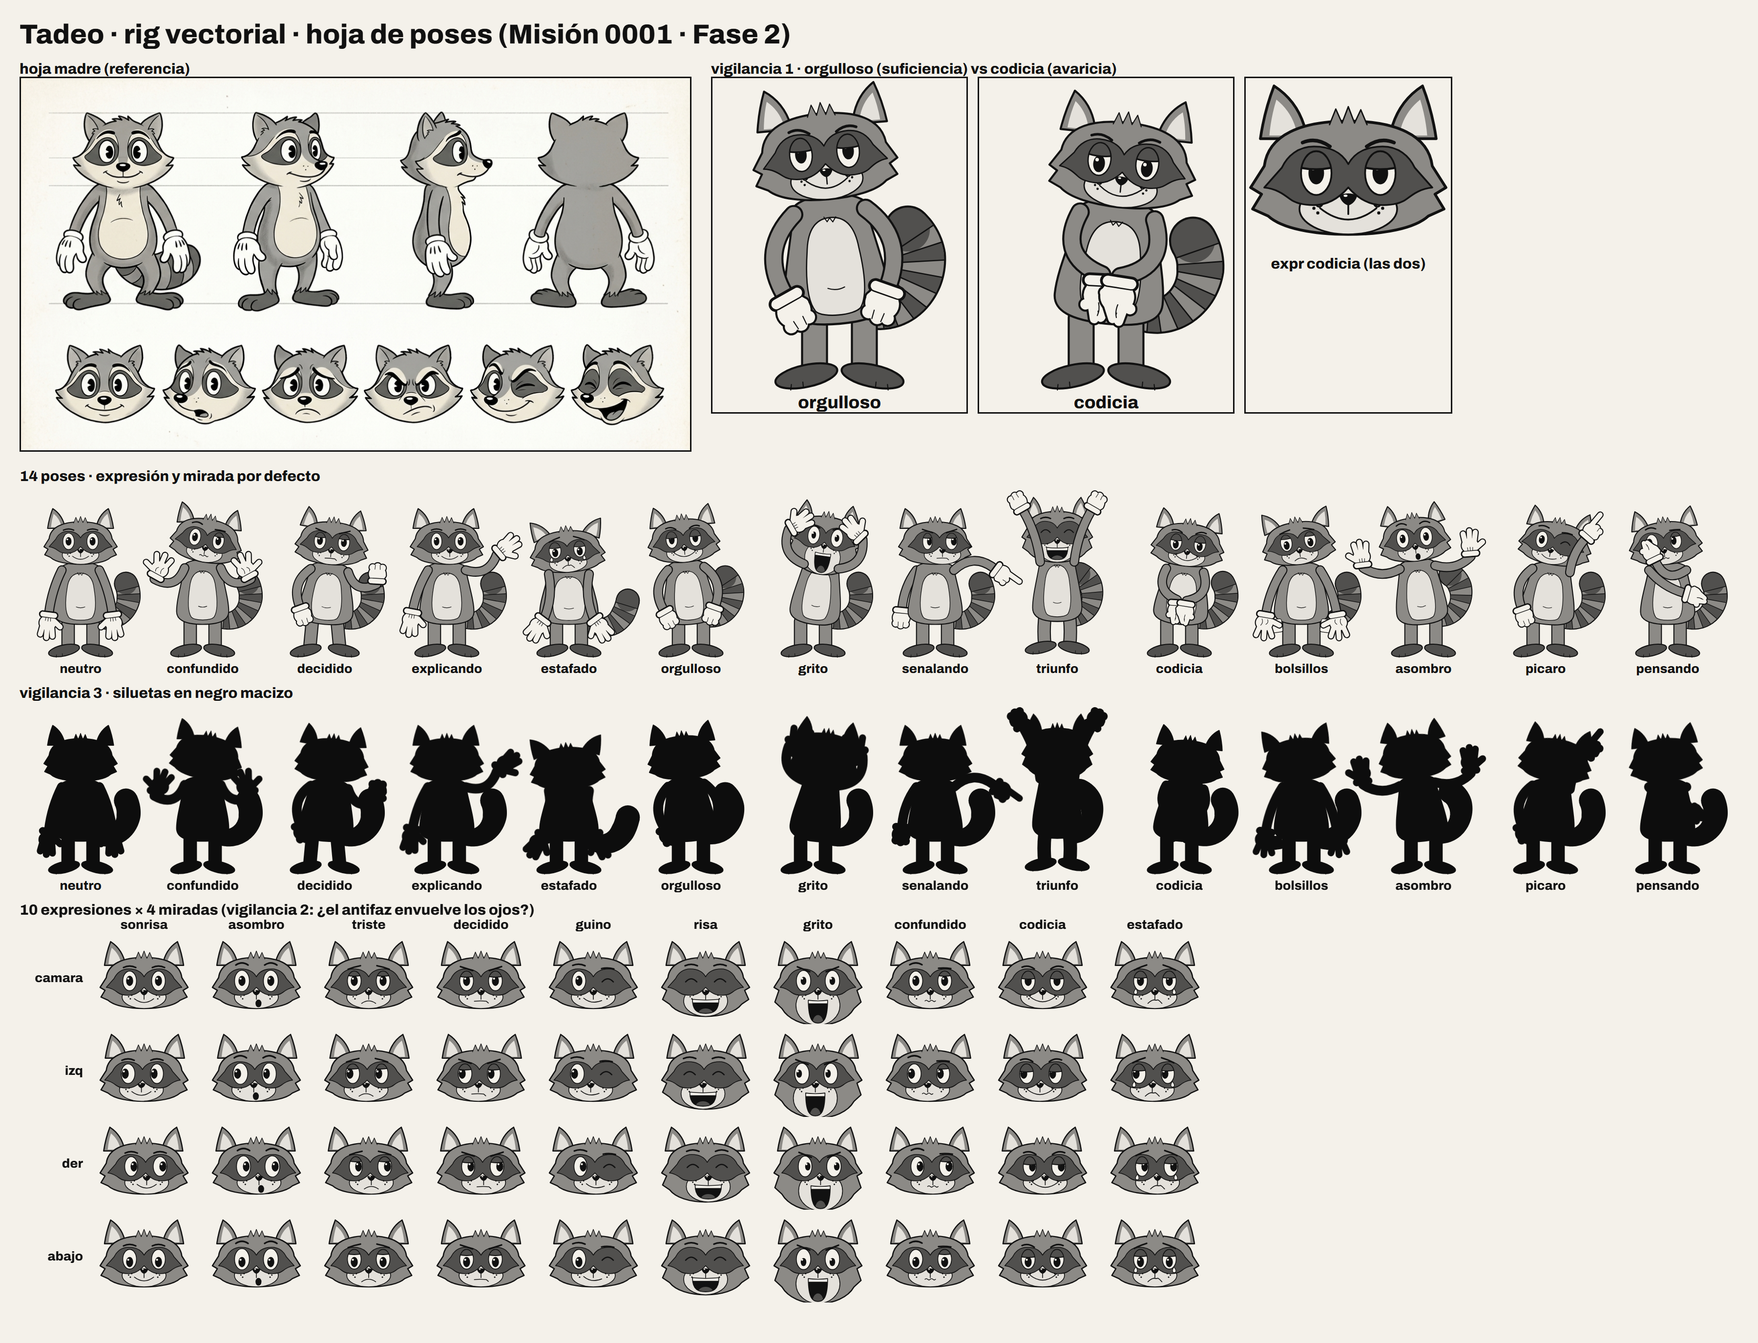
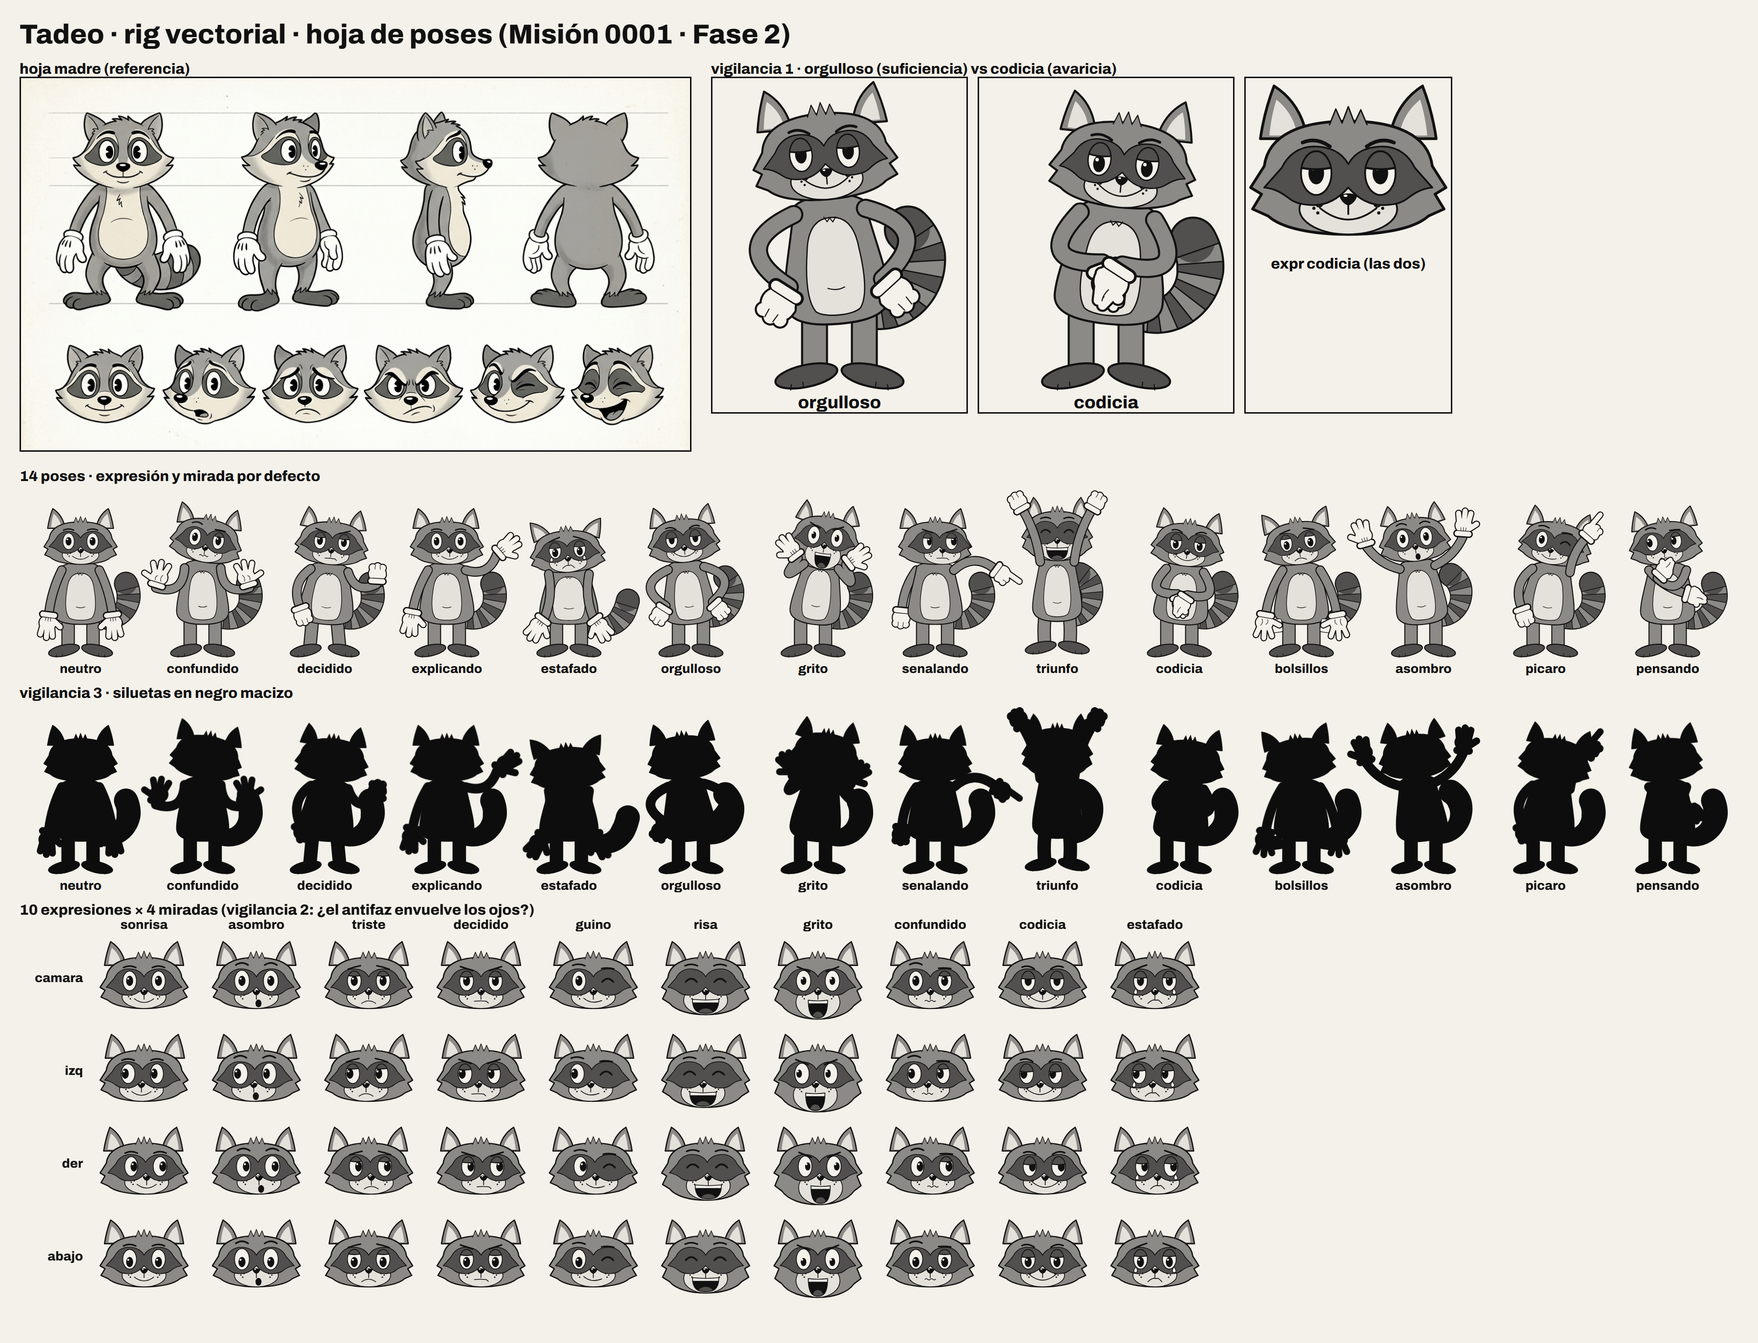
Mision 0001 fase 2: fixes de la critica A9, reporte y en-auditoria
- orgulloso con jarras y pensando bajo el hocico (bloqueantes de la critica)
- curvaMax 2 en brazos (A3 con 1 no alcanza jarras ni bocina): desviacion declarada
- confundido/asombro separados por altura, grito en bocina, mandibula acotada
- hoja de poses, gate y evidencia regenerados; reporte por criterio

diff --git a/motion_graphics/src/kx/tadeo/poses.js b/motion_graphics/src/kx/tadeo/poses.js
@@ -10,7 +10,9 @@ export const RIG = {
   cadera: [85, 235],
   cuelloLocal: [0, 625], // barbilla: la cabeza se apoya aquí (solape 30 u)
   cabezaCentro: 770,
-  brazo: { largo: 330, grosor: 52, factorCurva: 0.38, min: 0.75, max: 1.35 },
+  // curvaMax 2 (A3 decía 1): con 1 el codo sale como mucho 62 u y las jarras de
+  // `orgulloso` o la bocina de `grito` son imposibles. Desviación declarada en el Reporte.
+  brazo: { largo: 330, grosor: 52, factorCurva: 0.38, min: 0.75, max: 1.35, curvaMax: 2 },
   pierna: { largo: 175, grosor: 78, curvaMax: 0.35 },
   cola: { base: [95, 250], largo: 420, grosor: [90, 150], anillos: 5 },
   guante: { radio: 110 }, // radio envolvente del guante abierto desde la muñeca
@@ -53,7 +55,7 @@ export const POSES = {
   }),
   confundido: pose("confundido", "confundido", "camara", {
     cabeza: { inclina: 10 }, torso: { sy: 1.04 },
-    brazoI: brazo([-330, 510], 1, "palma", 90), brazoD: brazo([330, 510], -1, "palma", 90),
+    brazoI: brazo([-320, 450], 1.2, "palma", 90), brazoD: brazo([320, 450], -1.2, "palma", 90),
     orejas: { i: 10, d: -6 },
   }),
   decidido: pose("decidido", "decidido", "camara", {
@@ -72,12 +74,12 @@ export const POSES = {
   }),
   orgulloso: pose("orgulloso", "codicia", "camara", {
     torso: { inclina: -5, sy: 1.04 },
-    brazoI: brazo([-180, 320], -0.8, "puno"), brazoD: brazo([180, 320], 0.8, "puno"),
+    brazoI: brazo([-160, 340], -1.8, "puno", 90), brazoD: brazo([160, 340], 1.8, "puno", 90),
     cola: { rizo: 0.6, alza: 12 },
   }),
   grito: pose("grito", "grito", "camara", {
     torso: { inclina: 8, sy: 1.08 },
-    brazoI: brazo([-255, 805], 1, "abierta", 40), brazoD: brazo([255, 805], -1, "abierta", 40),
+    brazoI: brazo([-165, 620], 1.9, "abierta", -75), brazoD: brazo([165, 620], -1.9, "abierta", -75),
     orejas: { i: -12, d: -12 },
   }),
   senalando: pose("senalando", "decidido", "der", {
@@ -91,7 +93,7 @@ export const POSES = {
   }),
   codicia: pose("codicia", "codicia", "abajo", {
     cabeza: { dy: -10 }, torso: { inclina: 6 },
-    brazoI: brazo([-32, 380], -1, "agarra", 70), brazoD: brazo([32, 380], 1, "agarra", 70),
+    brazoI: brazo([-34, 420], -1.8, "agarra", 70), brazoD: brazo([34, 420], 1.8, "agarra", 70),
     cola: { rizo: 0.5 },
   }),
   bolsillos: pose("bolsillos", "triste", "abajo", {
@@ -101,7 +103,7 @@ export const POSES = {
   }),
   asombro: pose("asombro", "asombro", "camara", {
     torso: { inclina: -6, sy: 1.06 },
-    brazoI: brazo([-370, 620], 0.6, "abierta", 50), brazoD: brazo([370, 620], -0.6, "abierta", 50),
+    brazoI: brazo([-330, 760], 0.4, "abierta", 20), brazoD: brazo([330, 760], -0.4, "abierta", 20),
     orejas: { i: -12, d: -12 }, cola: { rizo: 0.7, alza: 20 },
   }),
   picaro: pose("picaro", "guino", "camara", {
@@ -110,7 +112,7 @@ export const POSES = {
   }),
   pensando: pose("pensando", "confundido", "izq", {
     cabeza: { inclina: -6 },
-    brazoI: brazo([110, 430], -0.35, "agarra", 0), brazoD: brazo([-80, 640], 1, "agarra", 0),
+    brazoI: brazo([110, 430], -0.35, "agarra", 0), brazoD: brazo([-70, 530], 1.3, "agarra", -90),
   }),
 };
 
@@ -133,8 +135,8 @@ export const EXPRESIONES = {
   triste: expr("triste", { cejaI: ceja(tan(16), -tan(16), 2), parpadoI: 0.25, boca: "triste" }),
   decidido: expr("decidido", { cejaI: ceja(-tan(18) - 6, tan(18) - 6, 0), parpadoI: 0.3, boca: "apretada" }),
   guino: expr("guino", { cejaI: ceja(10, 12, 8), cejaD: ceja(-6, -8, 4), cerradoD: true, boca: "ladeada" }),
-  risa: expr("risa", { cejaI: ceja(10, 10, 8), cerradoI: true, cerradoD: true, boca: "risa", mandibula: 45 }),
-  grito: expr("grito", { cejaI: ceja(-tan(22) - 10, tan(22) - 10, 0), pupila: 0.8, ojo: 1.05, boca: "grito", mandibula: 95 }),
+  risa: expr("risa", { cejaI: ceja(10, 10, 8), cerradoI: true, cerradoD: true, boca: "risa", mandibula: 35 }),
+  grito: expr("grito", { cejaI: ceja(-tan(22) - 10, tan(22) - 10, 0), pupila: 0.8, ojo: 1.05, boca: "grito", mandibula: 60 }),
   confundido: expr("confundido", { cejaI: ceja(16, 16, 10), cejaD: ceja(-4, -6, 2), parpadoD: 0.25, boca: "ondulada" }),
   codicia: expr("codicia", { cejaI: ceja(-8, 2, 10), parpadoI: 0.4, boca: "ancha" }),
   estafado: expr("estafado", { cejaI: ceja(tan(22), -tan(22), 2), parpadoI: 0.35, boca: "temblorosa", lagrima: true }),

diff --git a/motion_graphics/src/kx/tadeo/partes.jsx b/motion_graphics/src/kx/tadeo/partes.jsx
@@ -200,7 +200,7 @@ const Ojo = ({ id, cx, ancho, escala, pupila, mirada, parpado, cerrado, lagrima,
   const ry = 56 * escala;
   const cy = 782;
   if (cerrado) {
-    return <path d={`M ${cx - 32} ${cy - 6} Q ${cx} ${cy + 30} ${cx + 32} ${cy - 6}`} fill="none" strokeWidth={7} {...lineProps} />;
+    return <path d={`M ${cx - 32} ${cy - 6} Q ${cx} ${cy + 30} ${cx + 32} ${cy - 6}`} fill="none" strokeWidth={10} {...lineProps} />;
   }
   const px = cx + mirada.x * 16 * ancho;
   const py = cy + mirada.y * 20;
@@ -248,8 +248,8 @@ const Boca = ({ tipo, m, x, uid }) => {
   else if (tipo === "triste") el = <path d={`M -40 ${y - 14} Q 0 ${y + 14} 40 ${y - 14}`} {...st} />;
   else if (tipo === "apretada") el = <path d={`M -38 ${y - 2} Q 0 ${y + 2} 30 ${y - 2} L 42 ${y - 12}`} {...st} />;
   else if (tipo === "ladeada") el = <path d={`M -55 ${y + 16} Q -10 ${y - 22} 48 ${y + 2}`} {...st} />;
-  else if (tipo === "risa") el = open(Math.max(20, 80 * Math.min(1, m / 45)), 75, y + 9, `${uid}-boca`);
-  else if (tipo === "grito") el = open(Math.max(24, 130 * Math.min(1, m / 95)), 55, y + 4, `${uid}-boca`);
+  else if (tipo === "risa") el = open(Math.max(20, 80 * Math.min(1, m / 35)), 75, y + 9, `${uid}-boca`);
+  else if (tipo === "grito") el = open(Math.max(24, 100 * Math.min(1, m / 60)), 55, y + 4, `${uid}-boca`);
   else if (tipo === "ondulada") el = <path d={`M -30 ${y} q 7.5 7 15 0 t 15 0 t 15 0 t 15 0`} {...st} />;
   else if (tipo === "ancha") el = (
     <g>

diff --git a/tests/test_tadeo_lib.py b/tests/test_tadeo_lib.py
@@ -54,7 +54,8 @@ def test_defaults_validos():
         assert p["mirada"] in LIB["miradas"], pid
         for lado in ("brazoI", "brazoD"):
             assert p[lado]["guante"] in LIB["guantes"], (pid, lado)
-            assert -1 <= p[lado]["curva"] <= 1, (pid, lado)
+            cmax = LIB["rig"]["brazo"]["curvaMax"]
+            assert -cmax <= p[lado]["curva"] <= cmax, (pid, lado)
             assert p[lado]["capa"] in ("delante", "detras"), (pid, lado)
 
 

diff --git a/misiones/0001-fase2-rig-tadeo.md b/misiones/0001-fase2-rig-tadeo.md
@@ -1,6 +1,6 @@
 # MISIÓN 0001 — Fase 2: Rig vectorial de Tadeo
 
-Estado: en-curso (Parte A — diseño — entregada; Parte B — construcción — pendiente) ·
+Estado: en-auditoria (Parte A — diseño de Fable; Parte B — construcción y crítica de Opus — entregadas) ·
 Rama: `feat/sistema-videos-korex-fase2` · Autor: Mijo · Diseño: Fable · Construcción y crítica: Opus
 
 ## Objetivo
@@ -270,7 +270,104 @@ con la caja envolvente de la pose × 1,25 en las manos).
 5. ¿Los guantes siguen siendo el punto más claro de la figura?
 
 ## PARTE B — Construcción (Opus)
-_(pendiente: se construye sobre este diseño, en sesión de Opus)_
+Construido sobre A0-A9 en `motion_graphics/src/kx/tadeo/` (`partes.jsx`, `poses.js`
++ `biblioteca.json`, `acting.js`, `Tadeo.jsx`), `tokens.js` (`TADEO_TONE`, `tone()`,
+`SPRING`), `KxTadeo.jsx` (prueba + hoja), `kx_tadeo.py` y dos tests. `acting.js` es
+ESM puro sin React: Node lo ejecuta tal cual (tests) y Remotion lo dibuja (render).
+El spring es la solución analítica del oscilador (mismos parámetros que Remotion).
+
+### Desviaciones del diseño (declaradas, no silenciosas)
+1. **`curva` llega a ±2, no a ±1 (A3).** Con P1 = medio ± curva·330·0,38, el codo de
+   una Bézier cuadrática se separa la mitad, 62 u como mucho. Así, una mano a menos de
+   ~205 u del hombro no llega a 0,75× (confundido, grito, codicia, pensando, decidido D)
+   y las jarras de `orgulloso` con curva ±0,8 salieron como brazos colgando: es el
+   bloqueante de la crítica. `RIG.brazo.curvaMax = 2` y solo lo usan orgulloso (±1,8),
+   grito (±1,9), codicia (±1,8), pensando D (1,3) y confundido (±1,2).
+2. **Manos movidas respecto a la tabla A5** para entrar en 0,75-1,35× y mantener legibles
+   las siluetas: confundido ±320/450 (encogido) · decidido D 330/520 (puño fuera del
+   cuerpo; dentro, la silueta era igual a orgulloso) · explicando D 340/690 ·
+   grito ±165/620 (bocina) · senalando I −225/330 · codicia ±34/420 ·
+   asombro ±330/760 (brazos arriba) · pensando D −70/530 (bajo el hocico) e I 110/430.
+3. **`senalando` estira 0,91×, no 1,3×**: a 1,3× con la mano en x = 400 el guante sale de
+   la zona segura con el rebase de ACENTO, y A2 manda la zona segura.
+4. **El hocico va debajo del antifaz** (A2 lo ponía encima). Encima tapaba el borde bajo
+   de los lóbulos y los ojos quedaban medio fuera del antifaz, contra A0.2.
+5. **La mandíbula baja** en `risa` (35 u) y `grito` (60 u): una boca de 80 o 130 u no cabe
+   entre el ancla y = 668 y la barbilla y = 625.
+6. **Cambios discretos:** la boca cambia en t0+1, tapada por el parpadeo (A6.2). En
+   cambio, `guante` y `capa` cambian en el punto medio de la capa de brazos (t0+8 en
+   adelante), así que el parpadeo no los tapa: A4 y A6 se contradicen en esto.
+7. **`inclina` gira en pantalla** (positivo = horario), porque el rig solo tiene vista
+   frontal: «adelante/atrás» se ve como un ladeo lateral. `piernas.salto` es campo nuevo
+   (triunfo: «pies despegan 20 u»). Las orejas y el `giro` del guante van en espejo.
+8. **Orden de capas:** las dos piernas se dibujan antes del torso. Si van después del
+   torso, su línea de contorno corta la base de la panza.
+
+### Crítica: qué se corrigió y qué queda
+- Corregidos los 2 bloqueantes: `orgulloso` tiene jarras con codos fuera (curva ±1,8) y
+  `pensando` lleva la mano bajo el hocico sin tocar el antifaz. También los menores de
+  confundido/asombro (alturas 450 vs 760), `grito` (bocina junto al hocico), boca de
+  `grito` (sale ≤ 35 u bajo la barbilla) y el «^» de `risa`/`guino` (trazo de 10 u).
+- **Pendiente para Fable (diseño):** máscara facial crema en el tercio inferior de la
+  cara · `T_CREAM` 0,07 → 0,13-0,15 · cara propia para `orgulloso` (barbilla arriba,
+  cejas relajadas).
+- **Menores aún abiertos:** puente del antifaz ≤ 40 u y ojos ×1,15 (son medidas de A2, así
+  que las decide Fable) · anillos de la cola en cuña y punta gruesa · curva mínima |0,15|
+  en neutro/estafado · `codicia` sigue con las manos sobre la panza (ahora con los codos
+  fuera).
+
+## Crítica A9 (Opus, sesión separada)
+Juzgado sobre `evidencia/0001-fase2/hoja_de_poses.png` contra `_hojas/model_sheet.png`. Sin leer código.
+
+**1. Cabeza sola = hoja madre → PARCIAL.** El «limón acostado», orejas, mechón y pecas están. Faltan dos rasgos de peso:
+- *Mejillas crema.* En la hoja madre todo el tercio inferior de la cara (debajo del antifaz, hasta los mechones) es crema; el gris solo cubre la coronilla. El rig pinta la cabeza entera gris con un hocico crema pequeño: se lee como otro mapache, más oscuro y más «gato». Afecta a las 40 cabezas. **DESVIACIÓN-DE-DISEÑO** (A0.4/A2 piden solo «hocico 250×130»). Fix: máscara facial `T_CREAM` que va de mechón a mechón bajo el antifaz, con el hocico encima.
+- *Antifaz de dos lóbulos.* El puente es casi tan alto como los lóbulos: se lee como una banda continua de bandido, no como dos gotas unidas. Además, los ojos solo llenan ~50 % del lóbulo (en la hoja madre, ~75 %). **CORREGIBLE-MENOR**: puente a ≤40 u con cintura marcada; ojo ×1,15.
+
+**2. ¿Antifaz envuelve los ojos en las 10? → SÍ, con dos matices.** Ningún blanco, pupila ni párpado se sale en las 40 celdas; las cejas viven sobre el borde superior del antifaz y no flotan. Matices:
+- `risa` × las 4 y `guino` (ojo D): el «^» es tinta sobre `T_MASK` 0,72, y a 640 px casi desaparece; en `risa` el antifaz además parece más grande y oscuro que en el resto de las celdas, y la cara se vuelve una franja negra. **CORREGIBLE-MENOR**: «^» de 6 u o con un filo `T_FUR`, y comprobar que `risa` no escala el antifaz.
+- `grito` × las 4: la boca saca el hocico por debajo de la barbilla y la cabeza pasa a ser más alta que ancha (rompe A0.1). Como estiramiento de grito es aceptable; hay que limitarlo a ≤40 u bajo la barbilla. **CORREGIBLE-MENOR**.
+
+**3. ¿14 siluetas distinguibles? → NO.**
+- **pose: orgulloso.** No está construida como dice A5: los brazos cuelgan rectos con los guantes abiertos junto a las caderas. No hay puños en la cadera ni codos fuera (curva ±0,8), así que tampoco hay los dos triángulos de aire que la definen. En silueta, `orgulloso` ≈ `neutro` ≈ `bolsillos`. **BLOQUEANTE**: bajar las manos a las caderas (x ≈ ±150, y ≈ 280) con guante `puno` y curva ±0,8 hacia fuera.
+- `decidido` vs `orgulloso`: se distinguen, pero solo porque `orgulloso` está rota; tras el fix habrá que revisarlo (el brazo I de `decidido` también va a la cadera).
+- **pose: codicia** ≈ **pose: estafado**: las manos quedan dentro de la silueta del cuerpo y el encorvado +6° no se nota (el torso sale recto). **CORREGIBLE-MENOR**: manos a y ≈ 520, fuera de la panza; inclinación real de +6° y cabeza adelantada.
+- `confundido` vs `asombro`: las dos tienen dos manos abiertas a los lados, a la altura de los hombros. Hoy solo las separan la inclinación de la cabeza y la asimetría de los brazos. **CORREGIBLE-MENOR**: en `confundido`, codos pegados y manos más bajas (y ≈ 480) con hombros arriba (encogerse); en `asombro`, brazos más altos y abiertos (y ≈ 720).
+- **pose: pensando.** El brazo D cruza la cara y el guante tapa el ojo y el lóbulo izquierdo del antifaz, cuando A5 dice «bajo el hocico». Esconde el rasgo n.º 2 de A0. **BLOQUEANTE**: muñeca a y ≈ 640 (barbilla), nunca por encima de y = 700.
+- pose: grito: las manos van sobre la cabeza (pánico), no haciendo bocina junto al hocico. La silueta es distinta, pero el gesto significa otra cosa. **CORREGIBLE-MENOR**: muñecas a x ≈ ±150, y ≈ 690.
+
+**4. ¿Algún brazo con codo? → NO.** No hay quiebres. El problema es el contrario: en `neutro`, `orgulloso`, `decidido` (I) y `estafado` los brazos son tubos rectos, más tubería que manguera. **CORREGIBLE-MENOR**: curva mínima |0,15| en reposo, nunca 0.
+
+**5. ¿Guantes = punto más claro? → PARCIAL.** Numéricamente sí (0,00 frente a 0,07). A la vista, la panza crema compite con los guantes, y en `codicia` y `estafado`, con los guantes sobre la panza, solo los separa la línea. **DESVIACIÓN-DE-DISEÑO** (A1): `T_CREAM` a 0,13-0,15 (la hoja madre es claramente más oscura que el blanco del guante).
+
+**Extra — cola (todas las poses):** los anillos salen como cuñas radiales y la punta es gorda, así que la cola se lee como abanico o concha, no como cola anillada (A0.7). **CORREGIBLE-MENOR**: franjas perpendiculares a la espina y punta que se afina.
+
+**Vigilancia de Mijo — `orgulloso` frente a `codicia`: NO se lee como suficiencia.** Las dos comparten la cara `codicia`, y como el cuerpo de `orgulloso` no tiene el akimbo, nada lo separa: se lee como «neutro con cara de tramposo», es decir, avaricia por contagio. El akimbo (bloqueante de arriba) arregla la mitad. La otra mitad la pide el diseño: hace falta barbilla arriba (`cabeza.inclina` hacia atrás, `dy` +10) y cejas relajadas altas en vez de «bajas y arqueadas», como variante `suficiencia`, o un override de cejas en la pose. **DESVIACIÓN-DE-DISEÑO.**
 
 ## Reporte
-_(lo escribe el ejecutor al terminar la Parte B)_
+Rama `feat/sistema-videos-korex-fase2`. Evidencia en `misiones/evidencia/0001-fase2/`.
+
+| # | Criterio | Artefacto |
+|---|---|---|
+| 1 | Hoja = biblioteca | `hoja_de_poses.png` (14 poses + 14 siluetas + 10×4 cabezas + hoja madre + orgulloso/codicia) y `hoja_celdas.json`. `py -m pytest tests/test_tadeo_lib.py` → verde (celdas == `bibliotecaJSON()`; `biblioteca.json` re-exportado == el commiteado) |
+| 2 | Gate de la prueba | `py kx_tadeo.py` → OK. `gate.json`: `palette.off_palette_max = 0.0`, `safe_zone.dark_outside_safe_max = 0.0`, `palette.char_color_fraction = 0.0` (78 frames). Además `nunca_congelado`: 0 pares idénticos en 390 frames (A6.9). Still sin pérdida: `char_color_fraction 5,2e-05` (< 0,0005, por el antialias del grano) |
+| 3 | Sin DEBT | `grep -rn "DEBT" motion_graphics/src/kx/tadeo/` → sin salida; `test_sin_deuda_ni_hex_en_tadeo` también prohíbe hex |
+| 4 | Acting medido | `tests/test_tadeo_acting.py` (Node sobre `acting.js`, sin render): arranque pupilas 0 < cabeza 3 < torso 6 < brazos 8 < cola 12; curva de parpadeo con pico en 2,5/6 (42/58), ease-in/out, uno por cambio y ≥ 20 f de separación, ninguno en risa ni al empezar grito; `sx·sy = 1 ± 0,001` (torso y cabeza) en todo frame de la prueba y de las 28 transiciones; hold ≥ 10 f medido antes de cada cambio, y `validarLinea` rechaza un cambio sin hold |
+| 5 | verify | `python scripts/verify.py` → VERDE (61 tests). CI: ver el PR |
+
+Composición de prueba (13 s): neutro (3 s de idle) → explicando → confundido → *decidido (beat).
+`contactsheet.png` muestra las transiciones con spring; `still.png` es el beat asentado.
+
+**Vigilancias de Mijo**
+1. *orgulloso = suficiencia, no avaricia:* en la primera hoja **no** se leía así: sin las
+   jarras era «neutro con cara de tramposo» (desviación 1). Con las jarras, el cuerpo
+   ya separa las dos poses: en el panel de vigilancia 1, `orgulloso` tiene codos fuera y
+   puños en la cadera, y `codicia` las manos juntas al centro. La cara es la misma
+   (`codicia`, por diseño), así que la mitad facial sigue pendiente de Fable. **Que lo juzgue Fabian.**
+2. *Antifaz envuelve los ojos en las 10:* sí, en las 40 celdas de la rejilla ningún
+   blanco, pupila ni párpado se sale (crítica, pregunta 2). Las cejas van encima del
+   antifaz, en la frente, como pide A2. El «^» de `risa`/`guino` pasó a 10 u; no lo he vuelto a revisar celda por celda.
+3. *Siluetas distinguibles:* confundido (manos bajas, encogido) vs asombro (brazos arriba),
+   y decidido (puño fuera a la derecha) vs orgulloso (jarras simétricas) se separan en la fila
+   de siluetas. No he vuelto a pasar el resto de pares tras los fixes: lo revisa Fabian en la hoja.
+
+⏸ **Puerta dura:** el PR no se fusiona sin la aprobación visual de Fabian sobre `hoja_de_poses.png`.

diff --git a/misiones/cola.md b/misiones/cola.md
@@ -3,6 +3,6 @@
 | # | Misión | Estado | Rama |
 |---|---|---|---|
 | 0 | Instalar la oficina y subir el repo a GitHub | aprobada — fusionada en `master` (23 nov 2026, orden de Fabian) | `chore/oficina-y-git` |
-| 1 | Construir el sistema de videos (prompt maestro de Fabian: motion graphics Remotion + Tadeo + pizarra) | en-curso — Fase 1 fusionada (PR #6); Fase 2: diseño de Fable entregado, construcción de Opus pendiente | `feat/sistema-videos-korex-fase2` |
+| 1 | Construir el sistema de videos (prompt maestro de Fabian: motion graphics Remotion + Tadeo + pizarra) | en-auditoria — Fase 1 fusionada (PR #6); Fase 2: rig construido y criticado, PR abierto, espera aprobación visual de Fabian | `feat/sistema-videos-korex-fase2` |
 | 2 | Oficina nivel KoreX: criterios ejecutables, `verify.py`, Stop hook, CI y protección de rama | aprobada — fusionada en `master` (PR #3) | `chore/oficina-nivel-korex` |
 | 3 | Limpieza antes de hacer público el repo (etapa 1: árbol + correo noreply) | completada — repo PÚBLICO y `master` protegido (PR + `verify` estricto, `enforce_admins`) | `chore/limpieza-pre-publico` |
